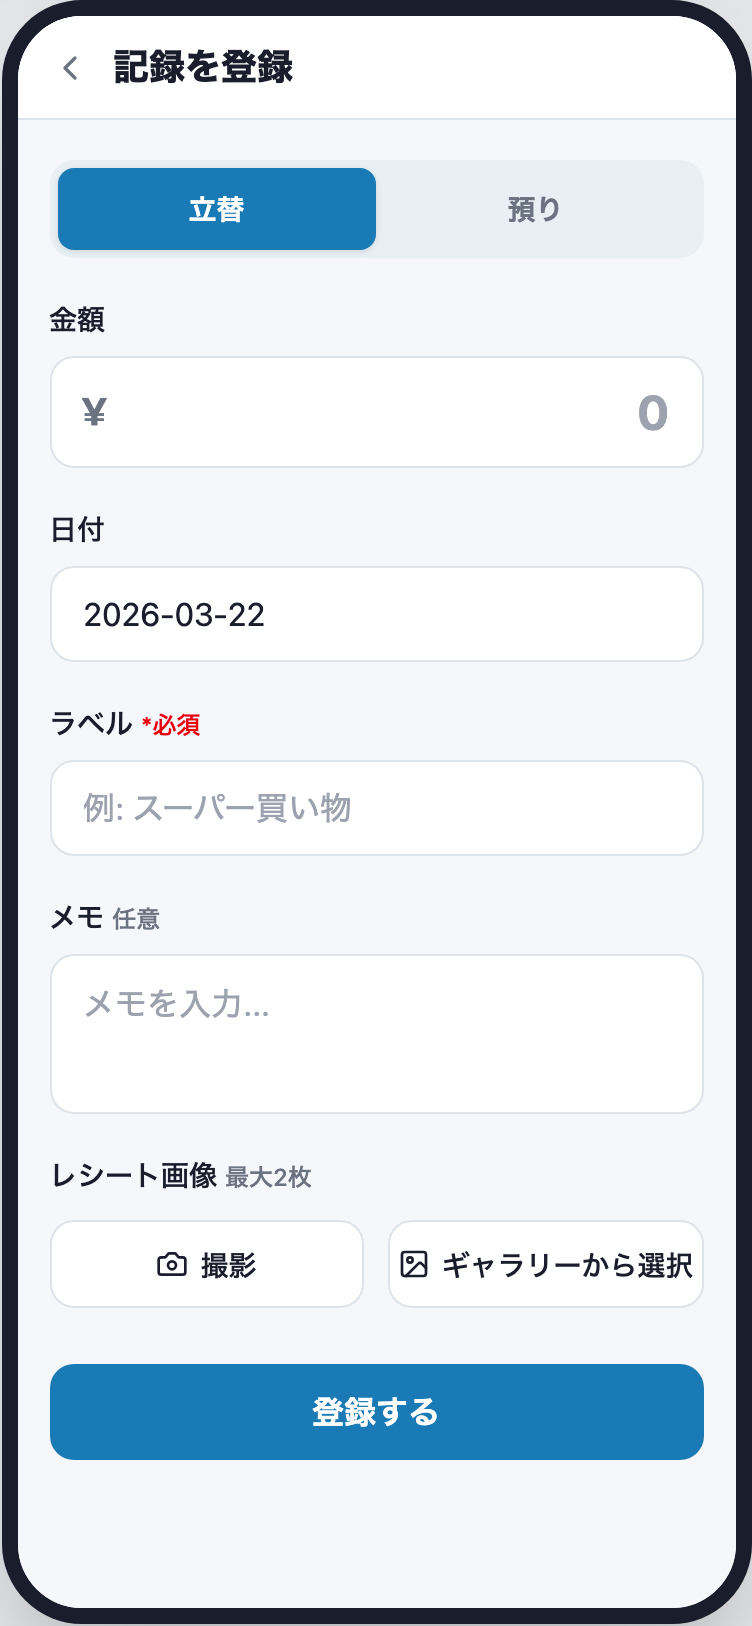
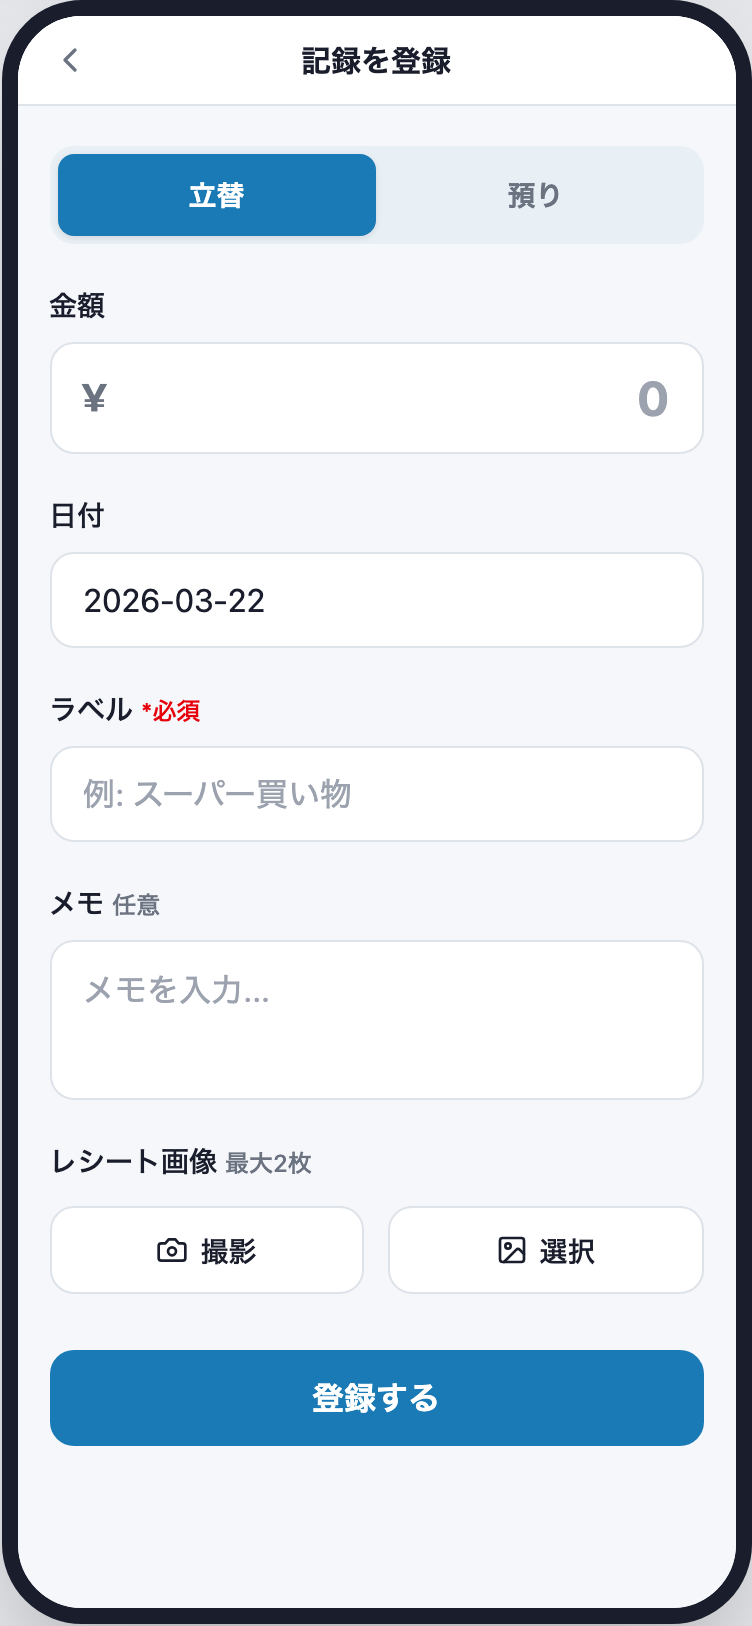
ヘッダーを中央揃え・サイズ縮小、「ギャラリーから選択」→「選択」に変更
- 全画面のヘッダータイトルを中央揃えに変更（position: absolute + translateX）
- フォントサイズを18px→15px、font-weightを700→600に縮小
- 「ギャラリーから選択」を「選択」に短縮（mockups.html, entry-form-screen.tsx, settlement-screen.tsx）
- 全13画面のスクリーンショットを再生成

diff --git a/docs/v0_design/mockups.html b/docs/v0_design/mockups.html
@@ -267,15 +267,18 @@ tailwind.config = {
   .header {
     display: flex;
     align-items: center;
-    gap: 12px;
     border-bottom: 1px solid #dde3e9;
     background: white;
     padding: 12px 16px;
+    position: relative;
   }
   .header h1 {
-    font-size: 18px;
-    font-weight: 700;
+    font-size: 15px;
+    font-weight: 600;
     color: #1a1e2c;
+    position: absolute;
+    left: 50%;
+    transform: translateX(-50%);
   }
   .back-arrow {
     color: #6b7280;
@@ -776,7 +779,7 @@ tailwind.config = {
           </button>
           <button class="btn-outline" style="flex: 1; height: 44px; font-size: 14px; padding: 0;">
             <svg width="16" height="16" viewBox="0 0 24 24" fill="none" stroke="currentColor" stroke-width="2" stroke-linecap="round" stroke-linejoin="round"><rect width="18" height="18" x="3" y="3" rx="2" ry="2"/><circle cx="9" cy="9" r="2"/><path d="m21 15-3.086-3.086a2 2 0 0 0-2.828 0L6 21"/></svg>
-            ギャラリーから選択
+            選択
           </button>
         </div>
       </div>
@@ -946,7 +949,7 @@ tailwind.config = {
           </button>
           <button class="btn-outline" style="flex: 1; height: 44px; font-size: 14px; padding: 0;">
             <svg width="16" height="16" viewBox="0 0 24 24" fill="none" stroke="currentColor" stroke-width="2" stroke-linecap="round" stroke-linejoin="round"><rect width="18" height="18" x="3" y="3" rx="2" ry="2"/><circle cx="9" cy="9" r="2"/><path d="m21 15-3.086-3.086a2 2 0 0 0-2.828 0L6 21"/></svg>
-            ギャラリーから選択
+            選択
           </button>
         </div>
       </div>

diff --git a/docs/v0_design/screens/settlement-screen.tsx b/docs/v0_design/screens/settlement-screen.tsx
@@ -99,7 +99,7 @@ export function SettlementScreen({ balance, onBack }: SettlementScreenProps) {
               disabled={images.length >= 2}
             >
               <ImageIcon className="h-4 w-4" />
-              {"ギャラリーから選択"}
+              {"選択"}
             </Button>
           </div>
           {images.length > 0 && (

diff --git a/docs/v0_design/screens/entry-form-screen.tsx b/docs/v0_design/screens/entry-form-screen.tsx
@@ -138,7 +138,7 @@ export function EntryFormScreen({ onBack }: EntryFormProps) {
               disabled={images.length >= 2}
             >
               <ImageIcon className="h-4 w-4" />
-              {"ギャラリーから選択"}
+              {"選択"}
             </Button>
           </div>
           {images.length > 0 && (
